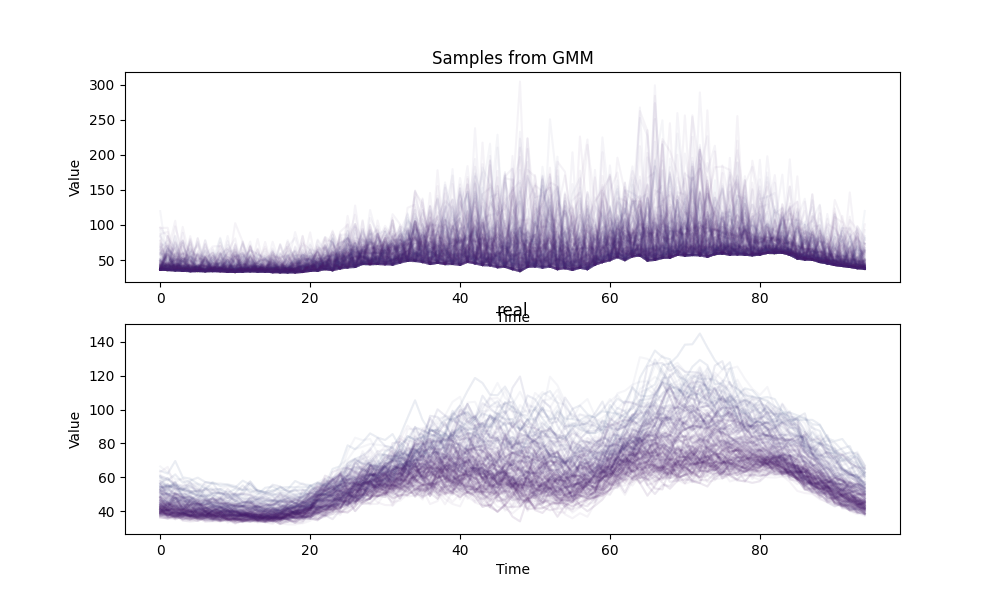
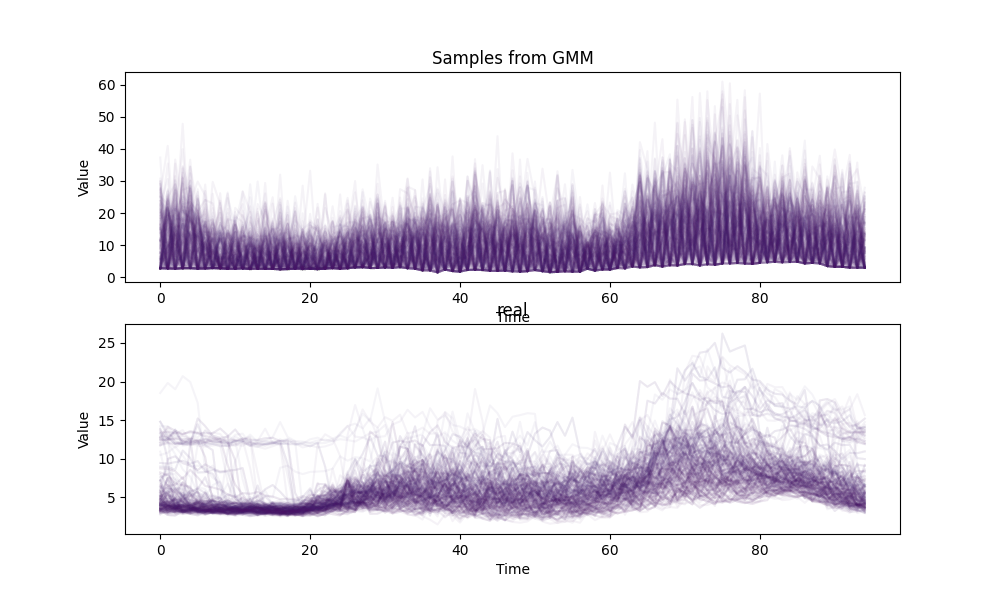
vae encoder

diff --git a/exp/exp_second_round/transformer_15minutes/vae_encoder/main_vae.py b/exp/exp_second_round/transformer_15minutes/vae_encoder/main_vae.py
@@ -1,0 +1,113 @@
+import os, sys
+_parent_path = os.path.abspath(os.path.join(os.path.dirname(__file__), '..', '..', '..'))
+sys.path.append(_parent_path)
+
+import wandb
+import torch
+import numpy as np
+import torch.optim as optim
+import matplotlib.pyplot as plt
+
+import exp_second_round.transformer_15minutes.vae_encoder.tools_vae as tools_vae
+import exp_second_round.transformer_15minutes.vae_encoder.vae_model as mds
+from asset.dataloader import Dataloader_nolabel
+
+torch.set_default_dtype(torch.float64)
+
+# load data
+batch_size =  32
+split_ratio = (0.8,0.1,0.1)
+data_path =  'exp/data_process_for_data_collection_all/transformer_data_15minutes.pkl' # sys.argv[1]  #'exp/data_process_for_data_collection_all/new_data_15minute_grid_nomerge.pkl' ## 
+dataset = Dataloader_nolabel(data_path,  batch_size=batch_size
+                    , split_ratio=split_ratio)
+dataset.images = dataset.images # + np.abs(np.random.normal(0, 0.01, dataset.images.shape)) 
+print('lenthg of train data: ', dataset.__len__()*split_ratio[0])
+print('lenthg of test data: ', dataset.__len__()*split_ratio[1])
+
+# device
+device = torch.device('cuda' if torch.cuda.is_available() else 'cpu')
+print(device)
+
+# Define the hyperparameters of VAE
+input_dim = 96
+hidden_dim = 24
+vae_model = mds.VAE(input_shape=input_dim, latent_dim=hidden_dim).to(device)
+
+save_model = 'exp/exp_second_round/transformer_15minutes/vae_encoder/'
+save_image = 'exp/exp_second_round/transformer_15minutes/vae_encoder/'
+lr = 0.001
+epochs = 1000
+sub_epoch = int(dataset.__len__()*split_ratio[0]/batch_size)
+
+# define the optimizer and loss function and cyclic learning rate scheduler
+optimizer = torch.optim.Adam(vae_model.parameters(), lr=lr)
+_model_cycle = sum(p.numel() for p in vae_model.parameters() if p.requires_grad)
+print('number of parameters: ', _model_cycle)
+
+loss_function = tools_vae.loss_function_vae
+wandb.init(project="vae_transformer_15minutes")
+wandb.config = {
+    "learning_rate": lr,
+    "epochs": 1000,
+    "batch_size": batch_size,
+    "input_dim": input_dim,
+    "hidden_dim": hidden_dim,
+    "model_type": '15m',
+}
+
+loss_mid = 1000
+for epoch in range(epochs):
+    for j in range(sub_epoch):
+        vae_model.train()
+        train_sample = dataset.load_train_data()
+        train_sample = torch.tensor(train_sample, dtype=torch.float64).to(device)
+    
+        # normalize the input data
+        _train_min,_ = train_sample[:,:, :-1].min(axis=1, keepdim=True)
+        _train_max,_ = train_sample[:,:, :-1].max(axis=1, keepdim=True)
+        train_sample = (train_sample[:,:, :-1] - _train_min)/(_train_max-_train_min+1e-15)
+        reshape_train_sample = train_sample.view(-1, 96)
+        
+        recon_data, mu, logvar = vae_model(reshape_train_sample)
+        loss, mse_l, kld_l = loss_function(recon_data, reshape_train_sample, mu, logvar)
+        wandb.log({"loss": loss.item(), "mse_loss": mse_l.item(), "kld_loss": kld_l.item()})
+        
+        #optimize the model
+        optimizer.zero_grad()
+        loss.backward()
+        optimizer.step()
+    
+    # check the loss in test set
+    test_sample = dataset.load_test_data()
+    test_sample = torch.tensor(test_sample, dtype=torch.float64).to(device)
+    _test_min,_ = test_sample[:,:, :-1].min(axis=1, keepdim=True)
+    _test_max,_ = test_sample[:,:, :-1].max(axis=1, keepdim=True)
+    test_sample = (test_sample[:,:, :-1] - _test_min)/(_test_max-_test_min+1e-15)
+    reshape_test_sample = test_sample.view(-1, 96)
+    recon_data, mu, logvar = vae_model(reshape_test_sample)
+    loss, mse_l, kld_l = loss_function(recon_data, reshape_test_sample, mu, logvar)
+    wandb.log({"loss": loss.item(), "mse_loss": mse_l.item(), "kld_loss": kld_l.item()})
+
+    if loss.item() < loss_mid:
+        loss_mid = loss.item()
+        torch.save(vae_model.state_dict(), os.path.join(save_model, 'vae_model.pth'))
+
+        # Plot the recon data
+        _plot_sample = test_sample[0,:, :-1]* (_test_max[0]-_test_min[0]+1e-15) + _test_min[0]
+        _plot_recon = recon_data[0, :, :-1] * (_test_max[0]-_test_min[0]+1e-15) + _test_min[0]
+        _plot_sample = _plot_sample.cpu().detach().numpy()
+        _plot_recon = _plot_recon.cpu().detach().numpy()
+        _plot_sample = _plot_sample.reshape(-1, 96)
+        _plot_recon = _plot_recon.reshape(-1, 96)
+        
+        plt.figure(figsize=(10, 5))
+        plt.plot(_plot_sample[:, 0], label='Original')
+        plt.plot(_plot_recon[:, 0], label='Reconstructed')
+        plt.title('Reconstructed vs Original')
+        plt.xlabel('Time')
+        plt.ylabel('Value')
+        plt.legend()
+        plt.savefig(os.path.join(save_image, f'recon_epoch_{epoch}.png'))
+        plt.close()
+        
+        wandb.log({"recon_epoch": wandb.Image(os.path.join(save_image, f'recon_epoch_{epoch}.png'))})

diff --git a/exp/exp_second_round/transformer_15minutes/vae_encoder/tools_vae.py b/exp/exp_second_round/transformer_15minutes/vae_encoder/tools_vae.py
@@ -1,0 +1,99 @@
+import torch
+import torch.nn as nn
+from torch.utils.data import Dataset, DataLoader
+from sklearn.preprocessing import MinMaxScaler
+import pandas as pd
+import numpy as np
+from scipy.stats import entropy
+import matplotlib.pyplot as plt
+import os
+import datetime 
+
+
+def loss_function_vae(recon_x, x, mu, logvar):
+    """Define the loss function of vae"""
+    mse = nn.functional.mse_loss(recon_x, x, reduction='sum')
+    kld = -0.5 * torch.sum(1 + logvar - mu.pow(2) - logvar.exp())
+    return mse + kld, mse, kld
+
+
+def train_models(
+    input_dim = 48,
+    hidden_dim = 10,
+    path_data =  r'/home/wxia/researchdrive/paper1/cleaned_data/uk_data_agg.csv',
+    saving_path =  r'/home/wxia/researchdrive/paper1/Models/models_agg/vae/uk_agg',
+    lr = 0.0002,
+    batch_size = 64,
+    epochs = 400,
+    save_control = False,
+    model_typle = '30m',
+    ):
+        
+    """
+    This the the training function of the model
+    z_dim: The dimension of noise
+    model_typle: model typles related to resoultion of the data we have 15 minutes (15m), 30m, and 60m
+    lr: learning rate
+    epochs: epochs
+    k: training ratio (train discriminator once, then train generator 5 times)
+    path_data: path of input data
+    saving_path: path to save the data and model
+    save_control: save the model or not
+    """
+        
+    # load the data & data loader
+    data = pd.read_csv(path_data)
+    data_loader, scaler = dataloader(data, batch_size=batch_size, shuffle=True)
+
+    # define the device
+    device = torch.device("cuda" if torch.cuda.is_available() else "cpu")
+
+    # define the model
+    if model_typle == '30m':
+        vae = mds.VAE_30m(input_shape=input_dim, latent_dim=hidden_dim).to(device)
+    elif model_typle == '60m':
+        vae = mds.VAE_60m(input_shape=input_dim, latent_dim=hidden_dim).to(device)
+    vae = nn.DataParallel(vae)
+
+    # define the optimizer
+    optimizer = torch.optim.Adam(vae.parameters(), lr=lr)
+
+    # store the loss
+    losses = []
+    msees = []
+    klds = []
+
+    # train the model
+    print('Start training the model!')
+    for epoch in range(epochs):
+        print(f'Epoch [{epoch+1}/{epochs}]')
+        for i, data in enumerate(data_loader):
+            # renconstruct the data
+            recon_data, mu, logvar = vae(data.to(device))
+            
+            # compute the loss
+            loss, mse_l, kld_l = loss_function_vae(recon_data, data.to(device), mu, logvar) 
+            
+            #optimize the model
+            optimizer.zero_grad()
+            loss.backward()
+            optimizer.step()
+            
+            losses.append(loss.item())
+            msees.append(mse_l.item())
+            klds.append(kld_l.item())
+            
+            # compute the js divergence
+            p = data.cpu().detach().numpy()
+            q = recon_data.cpu().detach().numpy()
+            
+            if save_control:
+                print('saving the models')
+                time = datetime.datetime.now().strftime("%Y%m%d-%H%M%S")
+                path = saving_path+f'/models'
+                if not os.path.exists(path):
+                    os.makedirs(path)
+                torch.save(vae.module.state_dict(), path+f'/{model_typle}__{epoch}_{time}.pt')
+                  
+    return scaler
+    

diff --git a/exp/exp_second_round/eva/evatransformer/sample_from_mainmodel.py b/exp/exp_second_round/eva/evatransformer/sample_from_mainmodel.py
@@ -24,43 +24,43 @@ device = torch.device('cuda' if torch.cuda.is_available() else 'cpu')
 
 
 # Define the encoder parameters
-random_sample_num = 96
-n_components = 6    
-chw = (1, random_sample_num,  97)
-para_dim = n_components*2
-hidden_d = 96*1
-out_d = 96
-n_heads = 2
-mlp_ratio = 2
-n_blocks = 2
-
 # random_sample_num = 96
-# n_components = 3   
+# n_components = 6    
 # chw = (1, random_sample_num,  97)
 # para_dim = n_components*2
 # hidden_d = 96*1
 # out_d = 96
 # n_heads = 2
-# mlp_ratio = 4
-# n_blocks = 3
+# mlp_ratio = 2
+# n_blocks = 2
+
+random_sample_num = 96
+n_components = 3   
+chw = (1, random_sample_num,  97)
+para_dim = n_components*2
+hidden_d = 96*1
+out_d = 96
+n_heads = 2
+mlp_ratio = 4
+n_blocks = 3
 
 # Create the encoder model
 encoder = gmm_model.ViT_encodernopara(chw, hidden_d, out_d, n_heads, mlp_ratio, n_blocks).to(device)
 
 # load state dict of the model
-model_path = 'exp/exp_second_round/transformer_15minutes/model/transformer_encoder_96_251246.pth'
-# model_path = 'exp/exp_second_round/transformer_15minutes/model/transformer_encoder_96_783090.pth'
+# model_path = 'exp/exp_second_round/transformer_15minutes/model/transformer_encoder_96_251246.pth'
+model_path = 'exp/exp_second_round/transformer_15minutes/model/transformer_encoder_96_783090.pth'
 model = torch.load(model_path, map_location=device)
 encoder.load_state_dict(model)
 
 embedding_para = torch.nn.Embedding(n_components*2, 1).to(device)
 emb_empty_token = torch.nn.Embedding(1, chw[2]).to(device)
 
-path_embedding = 'exp/exp_second_round/transformer_15minutes/model/transformer_embedding_96_251246.pth'
-# path_embedding = 'exp/exp_second_round/transformer_15minutes/model/transformer_embedding_96_783090.pth'
+# path_embedding = 'exp/exp_second_round/transformer_15minutes/model/transformer_embedding_96_251246.pth'
+path_embedding = 'exp/exp_second_round/transformer_15minutes/model/transformer_embedding_96_783090.pth'
 emb_weight = torch.load(path_embedding, map_location=device, weights_only=False)
-path_empty = 'exp/exp_second_round/transformer_15minutes/model/transformer_emb_empty_token_96_251246.pth'
-# path_empty = 'exp/exp_second_round/transformer_15minutes/model/transformer_emb_empty_token_96_783090.pth'
+# path_empty = 'exp/exp_second_round/transformer_15minutes/model/transformer_emb_empty_token_96_251246.pth'
+path_empty = 'exp/exp_second_round/transformer_15minutes/model/transformer_emb_empty_token_96_783090.pth'
 empty_token_vec = torch.load(path_empty, map_location=device,weights_only=False)
 
 # load data

diff --git a/exp/exp_second_round/transformer_15minutes/vae_encoder/vae_model.py b/exp/exp_second_round/transformer_15minutes/vae_encoder/vae_model.py
@@ -1,0 +1,60 @@
+import torch
+from torch import nn
+
+class VAE(nn.Module):
+    def __init__(self, input_shape=48, latent_dim=10):
+        super(VAE, self).__init__()
+
+        self.input_shape = input_shape
+        self.latent_dim = latent_dim
+        self.out_scale1 = 96 # control the model complexity
+        
+        self.encoder = nn.Sequential(
+                # First layer
+                nn.Linear(self.input_shape,self.out_scale1*10),
+                nn.BatchNorm1d(self.out_scale1*10),
+                nn.LeakyReLU(),
+                
+                # second layer
+                nn.Linear(self.out_scale1*10,self.out_scale1*5),
+                nn.BatchNorm1d(self.out_scale1*5),
+                nn.LeakyReLU(),
+                )
+        
+        self.mu = nn.Linear(self.out_scale1*5, self.latent_dim) 
+        self.logvar = nn.Linear(self.out_scale1*5, self.latent_dim)
+
+        self.decoder = nn.Sequential(
+                # First layer
+                nn.Linear(self.latent_dim,self.out_scale1*5),
+                nn.BatchNorm1d(self.out_scale1*5),
+                nn.LeakyReLU(),
+                
+                # second layer
+                nn.Linear(self.out_scale1*5,self.out_scale1*10),
+                nn.BatchNorm1d(self.out_scale1*10),
+                nn.LeakyReLU(),
+                
+                # third layer
+                nn.Linear(self.out_scale1*10,self.input_shape),
+                nn.BatchNorm1d(self.input_shape),
+                nn.Tanh()
+            )
+            
+            
+    def encode(self, x):
+        out = self.encoder(x)
+        return self.mu(out), self.logvar(out)
+
+    def reparameterize(self, mu, logvar):
+        std = torch.exp(0.5*logvar)
+        eps = torch.randn_like(std)
+        return mu + eps*std
+
+    def decode(self, z):
+        return self.decoder(z)
+
+    def forward(self, x):
+        mu, logvar = self.encode(x)
+        z = self.reparameterize(mu, logvar)
+        return self.decode(z), mu, logvar
